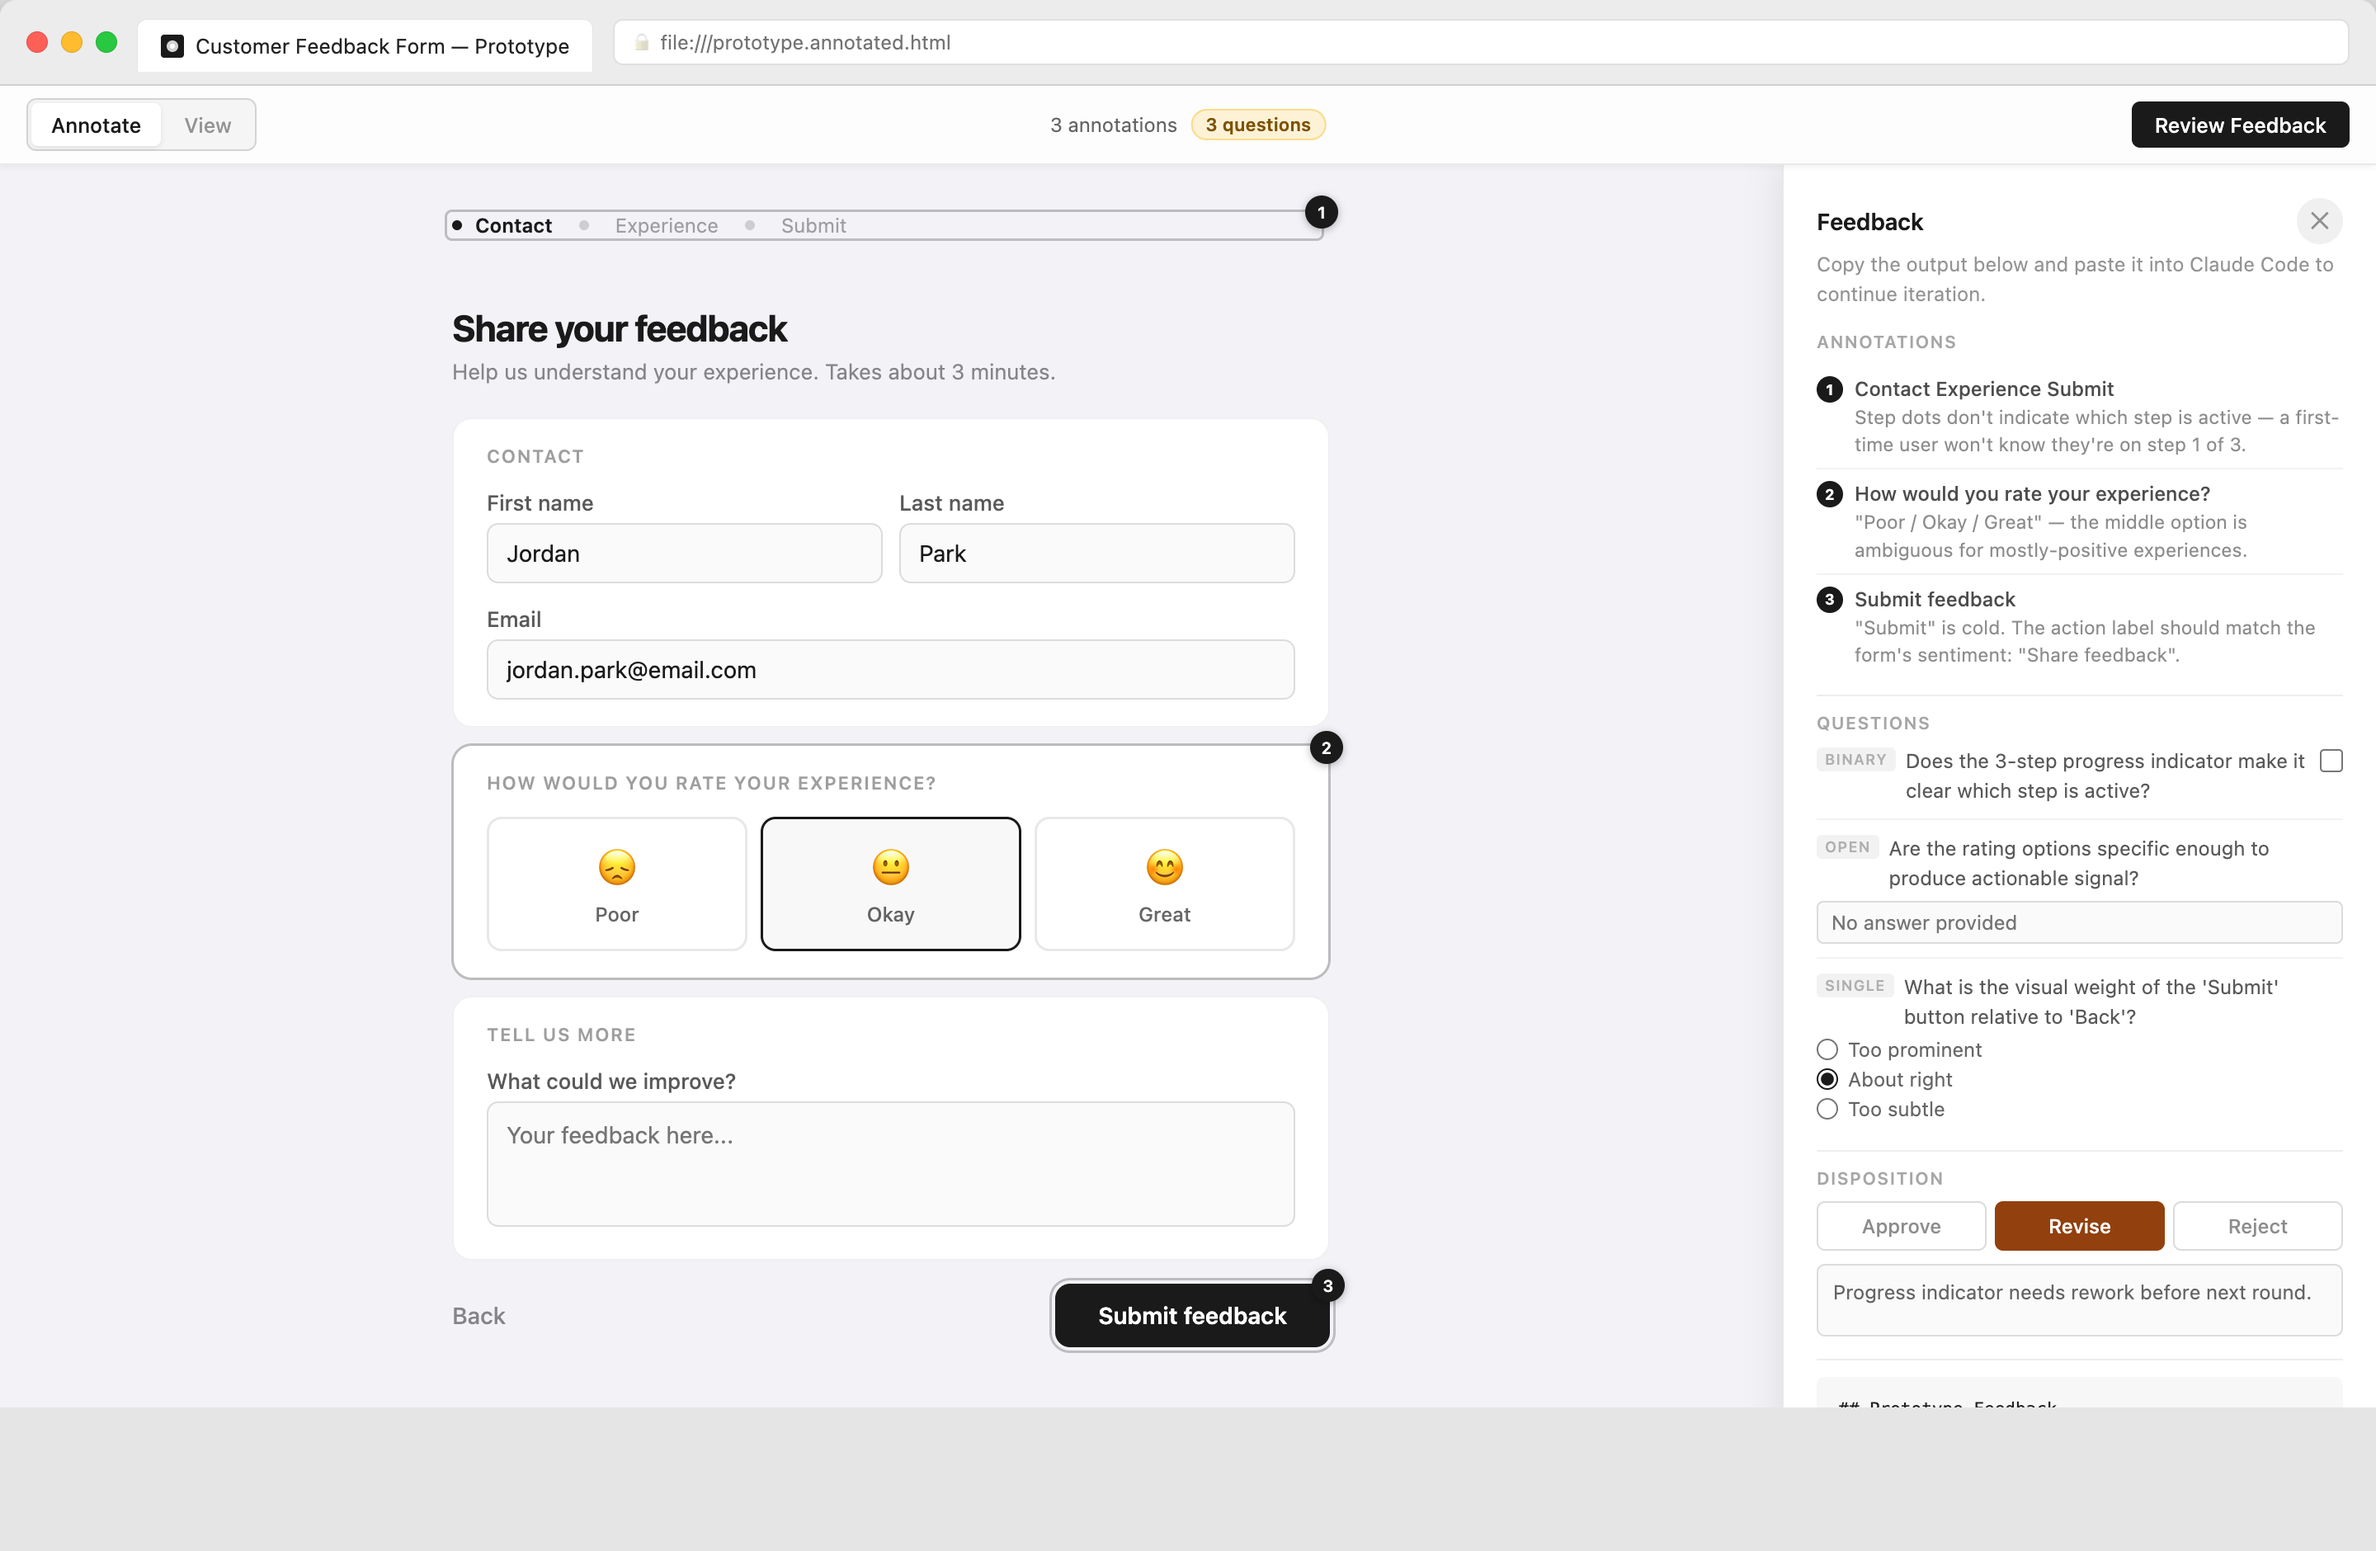
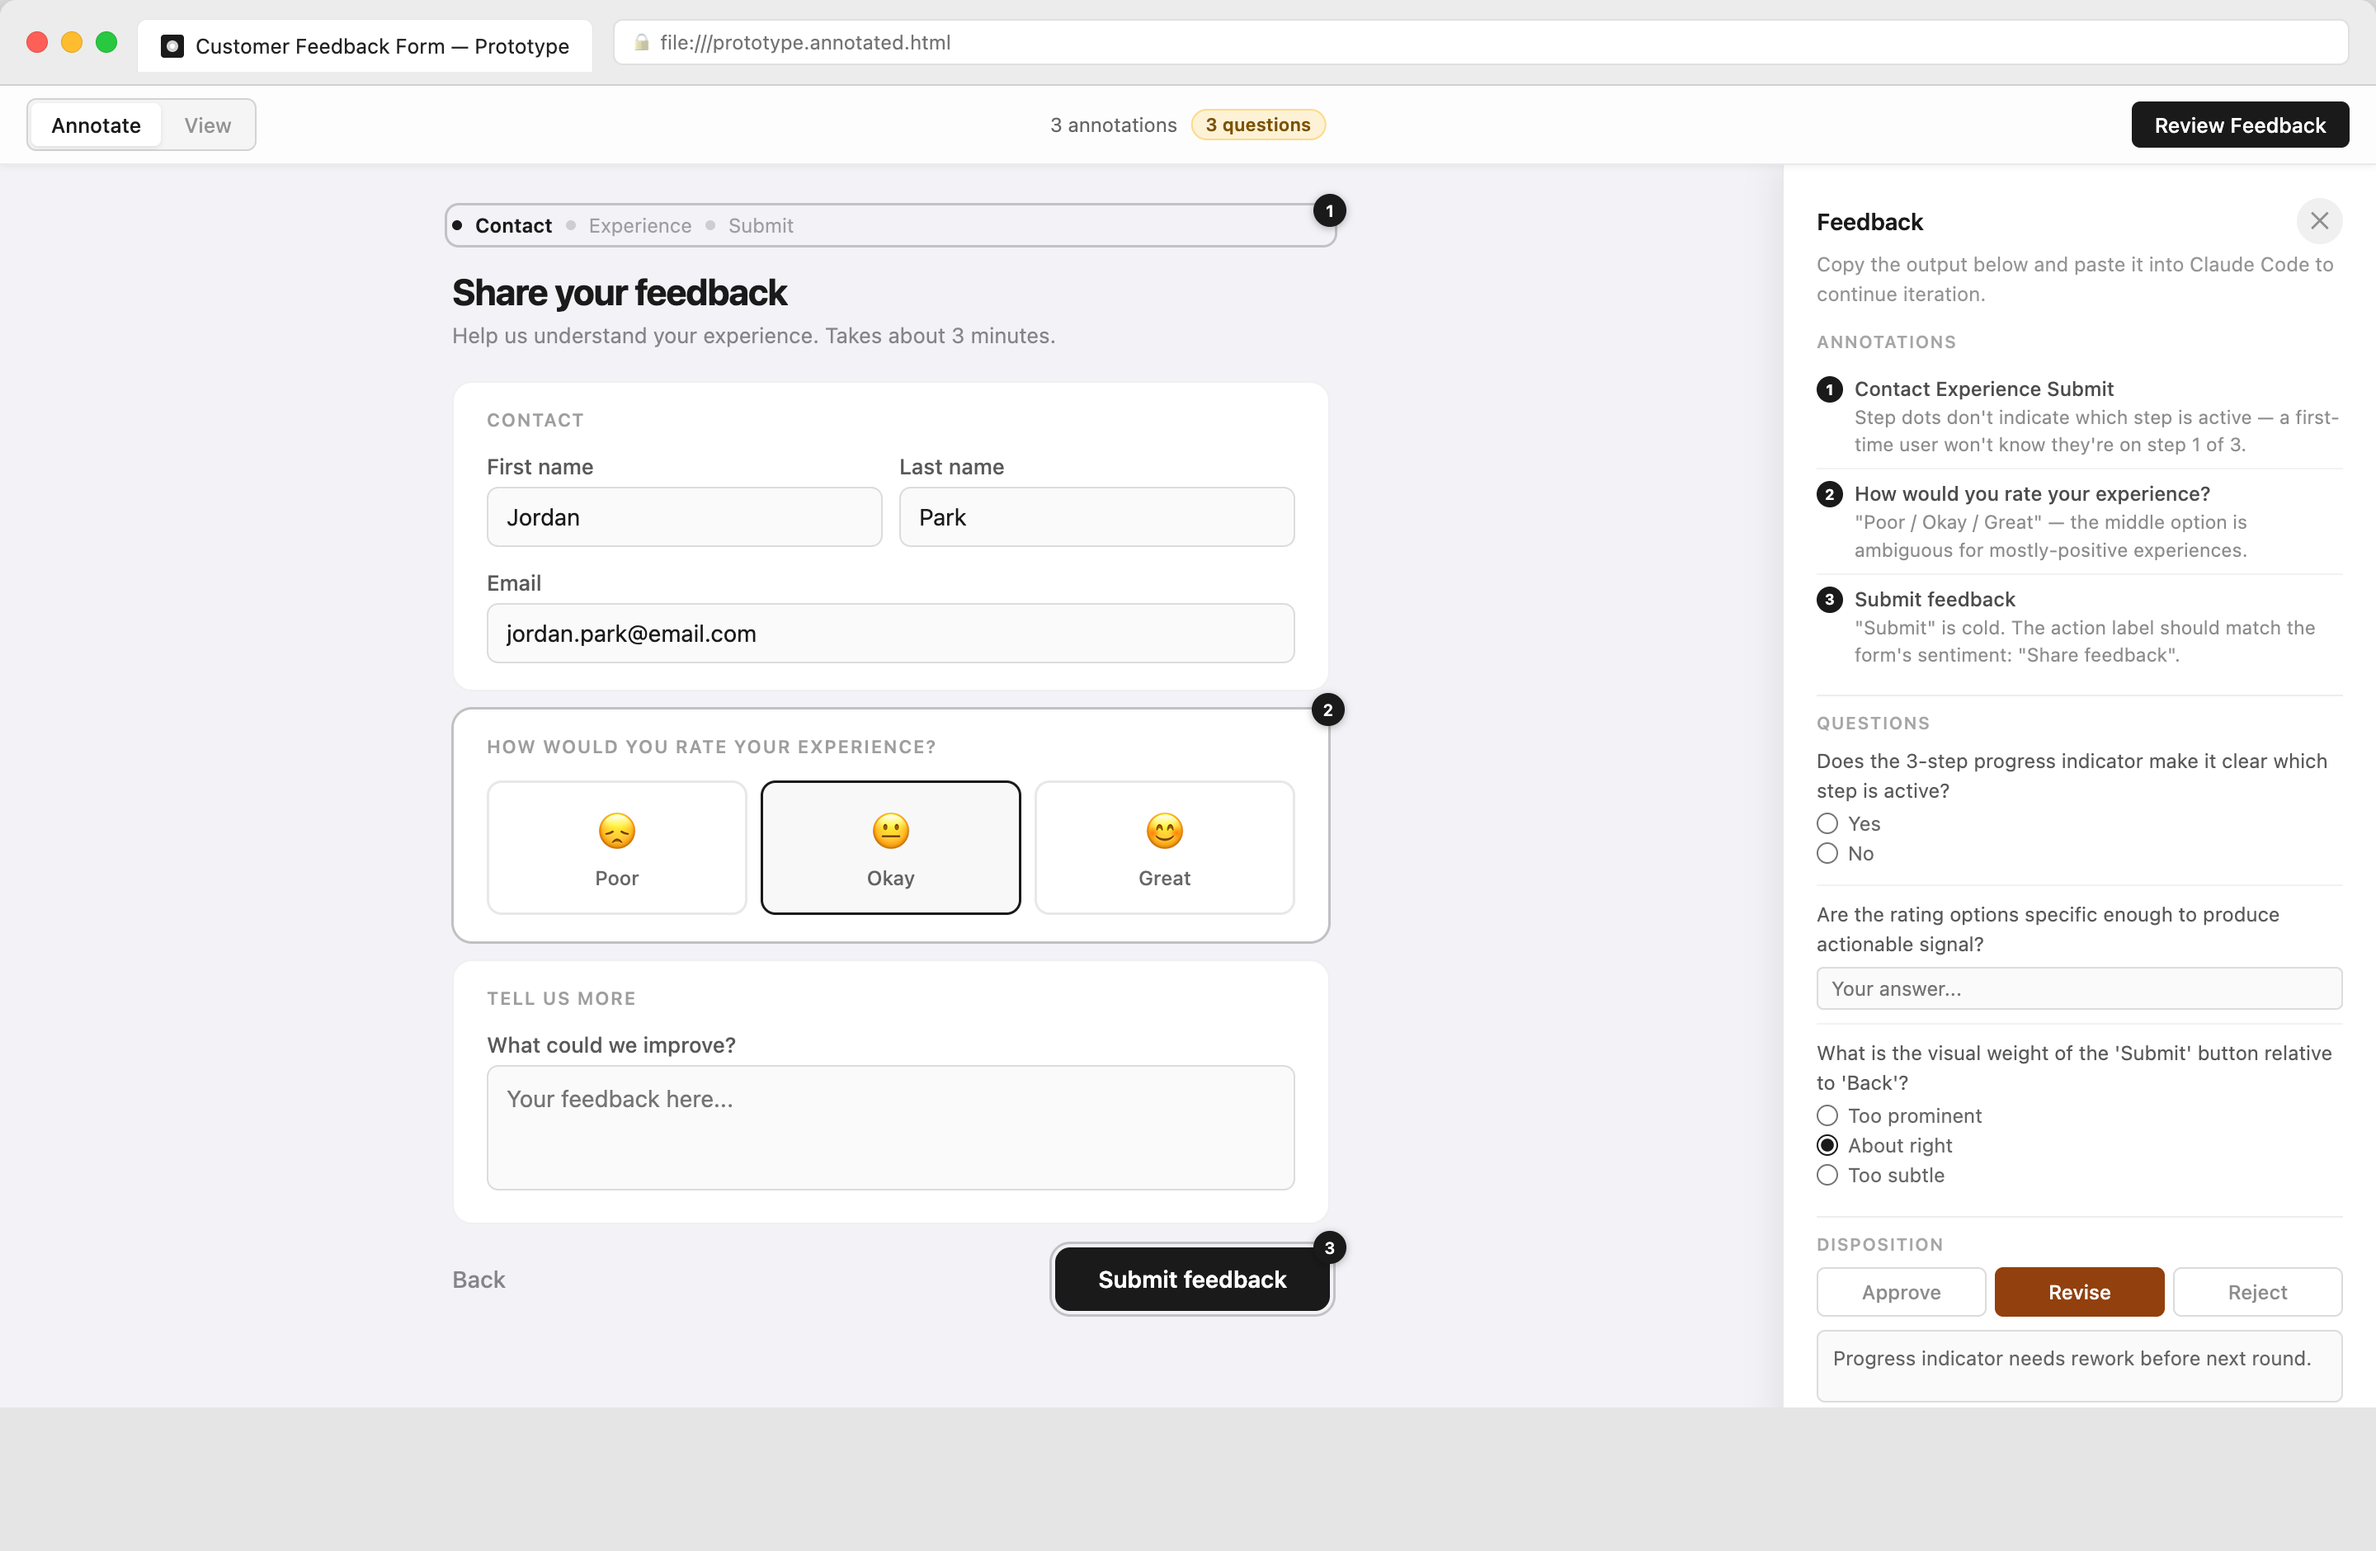
Remove question type tags from annotate overlay
The form controls (radio buttons, text input, checkboxes) already communicate type. The tags added visual noise without adding meaning. Also updates screenshot.

diff --git a/skills/annotate/SKILL.md b/skills/annotate/SKILL.md
@@ -260,14 +260,7 @@ Inject the block below verbatim. **Replace `// __BRIEF_QS__` with the complete `
   .ann-q-item { margin-bottom: 8px; padding-bottom: 8px; border-bottom: 1px solid rgba(0,0,0,0.05); }
   .ann-q-item:last-child { border-bottom: none; padding-bottom: 0; }
   .ann-q-row { display: flex; align-items: flex-start; gap: 6px; }
-  .ann-q-type-tag {
-    font-size: 9px; font-weight: 600; text-transform: uppercase;
-    letter-spacing: 0.05em; color: rgba(0,0,0,0.28);
-    background: rgba(0,0,0,0.05); border-radius: 3px;
-    padding: 2px 5px; flex-shrink: 0; margin-top: 1px;
-  }
   .ann-q-text { flex: 1; font-size: 12px; line-height: 1.5; color: rgba(0,0,0,0.65); }
-  .ann-q-cb { width: 14px; height: 14px; margin-top: 2px; flex-shrink: 0; accent-color: #1a1a1a; cursor: pointer; }
   .ann-q-answer-wrap { margin-top: 6px; }
   .ann-q-answer-input {
     width: 100%; height: 26px; padding: 0 8px; box-sizing: border-box;
@@ -740,11 +733,9 @@ Inject the block below verbatim. **Replace `// __BRIEF_QS__` with the complete `
   function buildQuestionItem(q) {
     var item = mk('div', 'ann-q-item');
     var row  = mk('div', 'ann-q-row');
-    var tags = { binary: 'Yes/No', open: 'Open', single: 'Single', multi: 'Multi' };
-    var tag  = mk('span', 'ann-q-type-tag', tags[q.type] || q.type);
-    var txt  = mk('span', 'ann-q-text', q.text);
+    var txt = mk('span', 'ann-q-text', q.text);
 
-    row.appendChild(tag); row.appendChild(txt);
+    row.appendChild(txt);
 
     if (q.removable !== false) {
       var rm = mk('button', 'ann-icon-btn ann-danger', '×');
